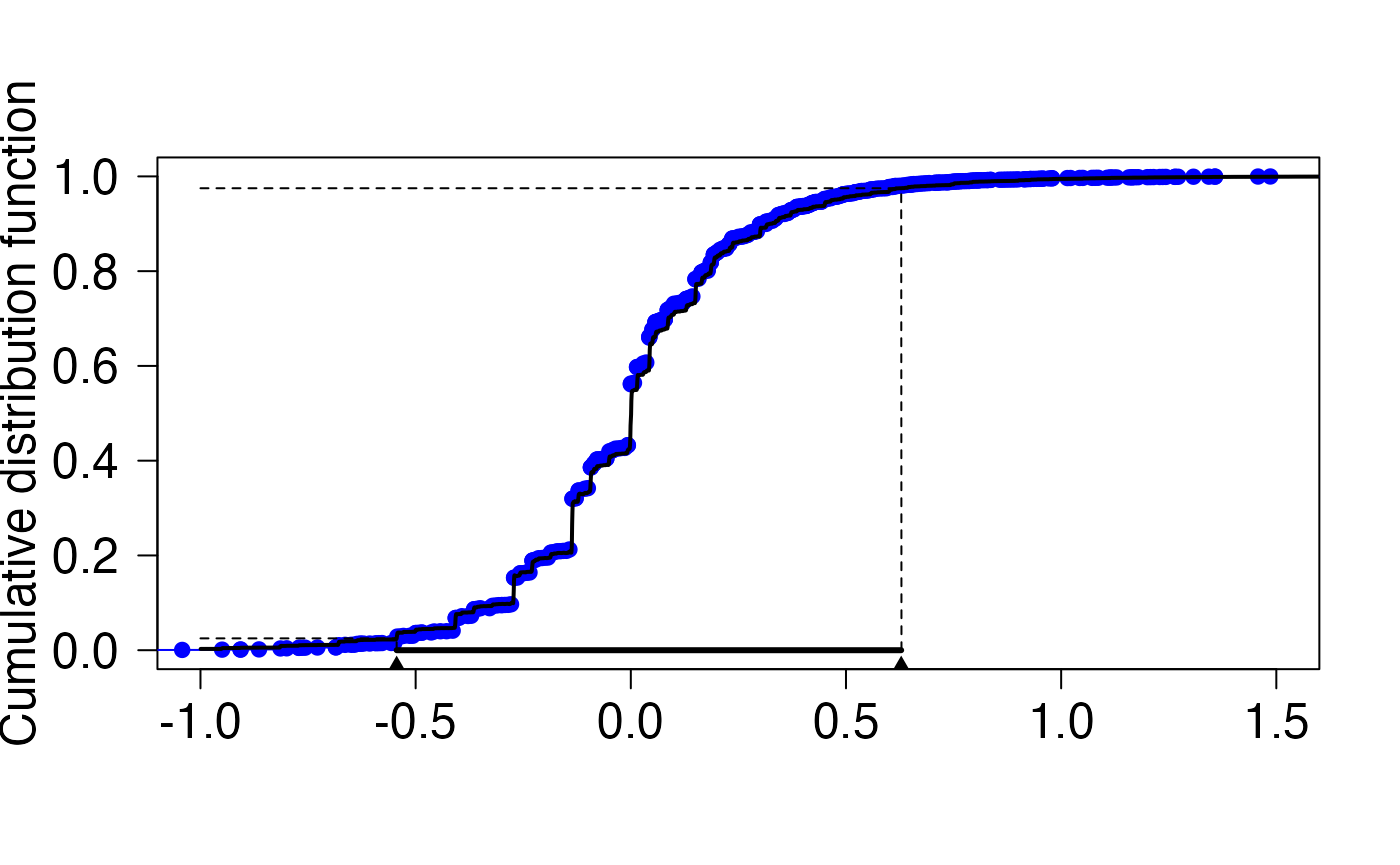
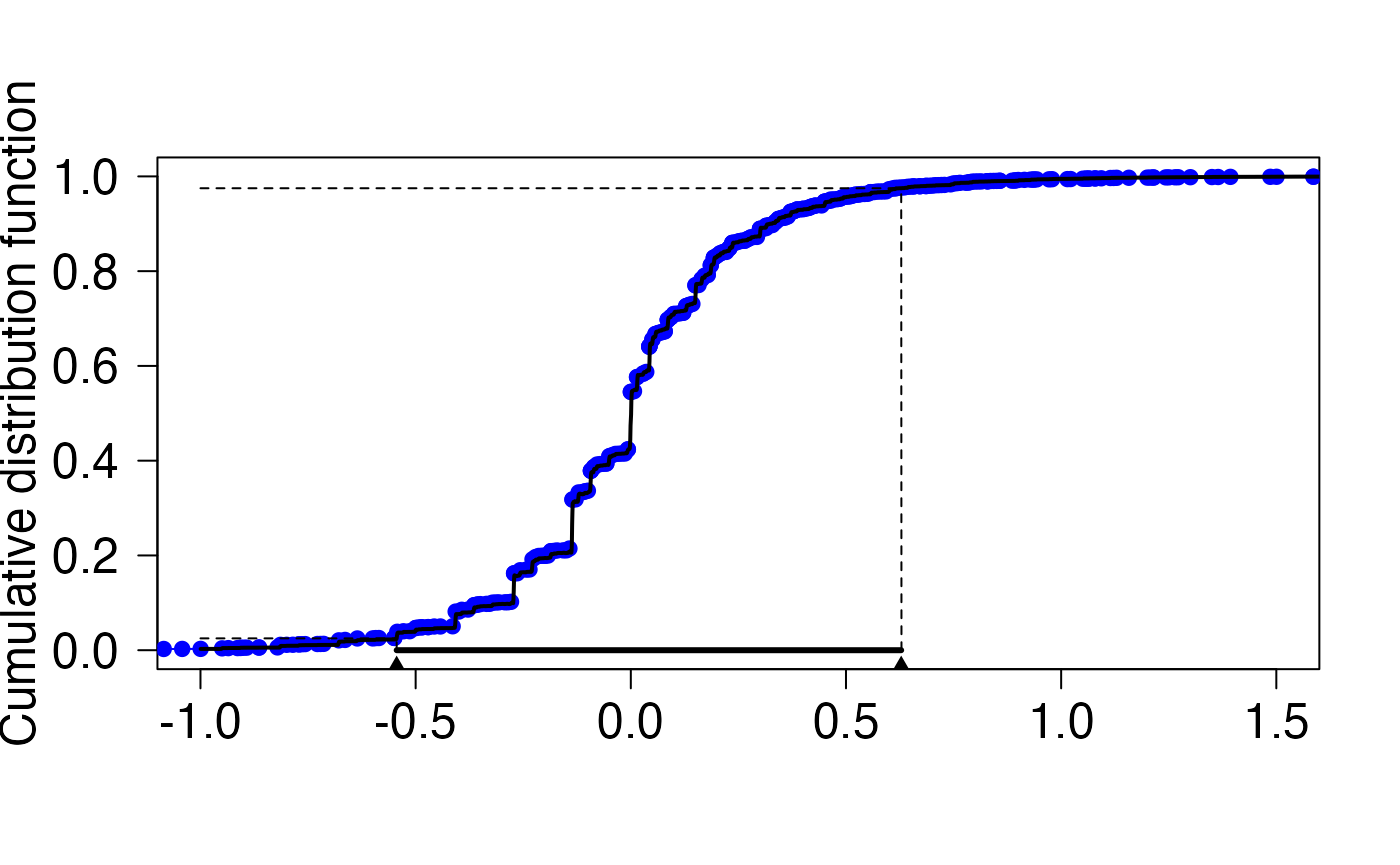
build site

diff --git a/docs/index.html b/docs/index.html
@@ -41,7 +41,7 @@
       </button>
       <span class="navbar-brand">
         <a class="navbar-link" href="index.html">PhaseTypeR</a>
-        <span class="version label label-default" data-toggle="tooltip" data-placement="bottom" title="Released version">1.0.1</span>
+        <span class="version label label-default" data-toggle="tooltip" data-placement="bottom" title="Released version">1.0.2</span>
       </span>
     </div>
 
@@ -106,15 +106,18 @@
 <div id="installation" class="section level2">
 <h2 class="hasAnchor">
 <a href="#installation" class="anchor"></a>Installation</h2>
-<p>If you install devtools in your R environment with <code><a href="https://rdrr.io/r/utils/install.packages.html">install.packages("devtools")</a></code>, the development version of the package can be installed with the following command:</p>
+<p>You can install <code>PhaseTypeR</code> from CRAN via:</p>
 <div class="sourceCode" id="cb1"><pre class="downlit sourceCode r">
+<code class="sourceCode R"><span class="fu"><a href="https://rdrr.io/r/utils/install.packages.html">install.packages</a></span><span class="op">(</span><span class="st">"PhaseTypeR"</span><span class="op">)</span></code></pre></div>
+<p>If you install devtools in your R environment with <code><a href="https://rdrr.io/r/utils/install.packages.html">install.packages("devtools")</a></code>, the development version of the package can be installed with the following command:</p>
+<div class="sourceCode" id="cb2"><pre class="downlit sourceCode r">
 <code class="sourceCode R"><span class="fu">devtools</span><span class="fu">::</span><span class="fu"><a href="https://devtools.r-lib.org/reference/remote-reexports.html">install_github</a></span><span class="op">(</span><span class="st">"rivasiker/PhaseTypeR"</span><span class="op">)</span></code></pre></div>
 </div>
 <div id="basic-example" class="section level2">
 <h2 class="hasAnchor">
 <a href="#basic-example" class="anchor"></a>Basic example</h2>
 <p>This is a basic example for the univariate continuous phase-type distribution.</p>
-<div class="sourceCode" id="cb2"><pre class="downlit sourceCode r">
+<div class="sourceCode" id="cb3"><pre class="downlit sourceCode r">
 <code class="sourceCode R"><span class="co"># Load the package</span>
 <span class="kw"><a href="https://rdrr.io/r/base/library.html">library</a></span><span class="op">(</span><span class="va"><a href="https://rivasiker.github.io/PhaseTypeR/">PhaseTypeR</a></span><span class="op">)</span>
 
@@ -128,7 +131,7 @@
 <span class="co"># Create continuous phase-type object</span>
 <span class="va">ph</span> <span class="op">&lt;-</span> <span class="fu"><a href="reference/generator_functions.html">PH</a></span><span class="op">(</span><span class="va">subintensity_matrix</span>, <span class="va">initial_probabilities</span><span class="op">)</span></code></pre></div>
 <p>Summary of the object:</p>
-<div class="sourceCode" id="cb3"><pre class="downlit sourceCode r">
+<div class="sourceCode" id="cb4"><pre class="downlit sourceCode r">
 <code class="sourceCode R"><span class="fu"><a href="https://rdrr.io/r/base/summary.html">summary</a></span><span class="op">(</span><span class="va">ph</span><span class="op">)</span>
 <span class="co">#&gt; </span>
 <span class="co">#&gt; Subintensity matrix:</span>
@@ -148,19 +151,19 @@
 <span class="co">#&gt; </span>
 <span class="co">#&gt; Variance: 5.44</span></code></pre></div>
 <p>Density function:</p>
-<div class="sourceCode" id="cb4"><pre class="downlit sourceCode r">
+<div class="sourceCode" id="cb5"><pre class="downlit sourceCode r">
 <code class="sourceCode R"><span class="fu"><a href="reference/PH_functions.html">dPH</a></span><span class="op">(</span><span class="fl">1</span><span class="op">:</span><span class="fl">5</span>, <span class="va">ph</span><span class="op">)</span>
 <span class="co">#&gt; [1] 0.1506327 0.2216989 0.1991321 0.1482987 0.1009037</span></code></pre></div>
 <p>Cumulative density function:</p>
-<div class="sourceCode" id="cb5"><pre class="downlit sourceCode r">
+<div class="sourceCode" id="cb6"><pre class="downlit sourceCode r">
 <code class="sourceCode R"><span class="fu"><a href="reference/PH_functions.html">pPH</a></span><span class="op">(</span><span class="fl">1</span><span class="op">:</span><span class="fl">5</span>, <span class="va">ph</span><span class="op">)</span>
 <span class="co">#&gt; [1] 0.07030638 0.26728005 0.48232823 0.65658059 0.78032198</span></code></pre></div>
 <p>Quantile function:</p>
-<div class="sourceCode" id="cb6"><pre class="downlit sourceCode r">
+<div class="sourceCode" id="cb7"><pre class="downlit sourceCode r">
 <code class="sourceCode R"><span class="fu"><a href="reference/PH_functions.html">qPH</a></span><span class="op">(</span><span class="fu"><a href="https://rdrr.io/r/base/c.html">c</a></span><span class="op">(</span><span class="fl">0.25</span>, <span class="fl">0.5</span>, <span class="fl">0.75</span><span class="op">)</span>, <span class="va">ph</span><span class="op">)</span>
 <span class="co">#&gt; [1] 1.921862 3.089664 4.716588</span></code></pre></div>
 <p>Random sampling:</p>
-<div class="sourceCode" id="cb7"><pre class="downlit sourceCode r">
+<div class="sourceCode" id="cb8"><pre class="downlit sourceCode r">
 <code class="sourceCode R"><span class="fu"><a href="https://rdrr.io/r/base/Random.html">set.seed</a></span><span class="op">(</span><span class="fl">0</span><span class="op">)</span>
 <span class="fu"><a href="reference/PH_functions.html">rPH</a></span><span class="op">(</span><span class="fl">6</span>, <span class="va">ph</span><span class="op">)</span>
 <span class="co">#&gt; [1] 4.648661 6.111533 4.586241 5.708529 8.354549 5.768456</span></code></pre></div>

diff --git a/docs/articles/a2_pop_gen_iker.html b/docs/articles/a2_pop_gen_iker.html
@@ -31,7 +31,7 @@
       </button>
       <span class="navbar-brand">
         <a class="navbar-link" href="../index.html">PhaseTypeR</a>
-        <span class="version label label-default" data-toggle="tooltip" data-placement="bottom" title="Released version">1.0.1</span>
+        <span class="version label label-default" data-toggle="tooltip" data-placement="bottom" title="Released version">1.0.2</span>
       </span>
     </div>
 
@@ -105,7 +105,8 @@
 <p><code>PhaseTypeR</code> is a flexible and efficient package for using phase-type theory in R. This vignette describes how to use the general-purpose phase-type functions for modeling common statistics in population genomics at the finest level. The formulation of general phase-type theory can be consulted in Bladt and Nielsen’s ‘Matrix-Exponential Distributions in Applied Probability’ <span class="citation">(<a href="#ref-Bladt2017" role="doc-biblioref">Bladt and Nielsen 2017</a>)</span>, and the notation for this vignette is also adopted from this book. On the other hand, the theory behind applying phase-type theory in population genomics is based on Hobolth et al. <span class="citation">(<a href="#ref-Hobolth2019" role="doc-biblioref">2019</a>)</span>.</p>
 <p>Do not hesitate to run <code>?PhaseTypeR</code> for a quick summary of the available general-purpose functions, or to open the help files for the individual functions.</p>
 <div class="sourceCode" id="cb1"><pre class="downlit sourceCode r">
-<code class="sourceCode R"><span class="kw"><a href="https://rdrr.io/r/base/library.html">library</a></span><span class="op">(</span><span class="va"><a href="https://rivasiker.github.io/PhaseTypeR/">PhaseTypeR</a></span><span class="op">)</span></code></pre></div>
+<code class="sourceCode R"><span class="kw"><a href="https://rdrr.io/r/base/library.html">library</a></span><span class="op">(</span><span class="va"><a href="https://rivasiker.github.io/PhaseTypeR/">PhaseTypeR</a></span><span class="op">)</span>
+<span class="co">#&gt; Warning: package 'igraph' was built under R version 4.1.2</span></code></pre></div>
 </div>
 <div id="the-univariate-continuous-phase-type-distribution-t_mrca-and-t_total" class="section level1">
 <h1 class="hasAnchor">
@@ -598,11 +599,11 @@ T_{total} = T_{MRCA} \circ [n, n-1, ..., 2]
 <span class="fu"><a href="../reference/mean.html">mean</a></span><span class="op">(</span><span class="va">xi1_4_3</span><span class="op">)</span><span class="op">-</span><span class="fl">1</span>; <span class="fu"><a href="../reference/mean.html">mean</a></span><span class="op">(</span><span class="va">xi2_4_3</span><span class="op">)</span><span class="op">-</span><span class="fl">1</span>; <span class="fu"><a href="../reference/mean.html">mean</a></span><span class="op">(</span><span class="va">xi3_4_3</span><span class="op">)</span><span class="op">-</span><span class="fl">1</span>
 <span class="co">#&gt; [1] 3</span>
 <span class="co">#&gt; [1] 1.5</span>
-<span class="co">#&gt; [1] 1</span>
+<span class="co">#&gt; [1] 0.6666667</span>
 <span class="fu"><a href="../reference/var.html">var</a></span><span class="op">(</span><span class="va">xi1_4_3</span><span class="op">)</span>;  <span class="fu"><a href="../reference/var.html">var</a></span><span class="op">(</span><span class="va">xi2_4_3</span><span class="op">)</span>;  <span class="fu"><a href="../reference/var.html">var</a></span><span class="op">(</span><span class="va">xi3_4_3</span><span class="op">)</span>
 <span class="co">#&gt; [1] 7</span>
 <span class="co">#&gt; [1] 6.75</span>
-<span class="co">#&gt; [1] 3</span></code></pre></div>
+<span class="co">#&gt; [1] 3.888889</span></code></pre></div>
 <p>Note that we need to subtract 1 from the mean to retrieve the true value. This is because of the way discrete phase-type distributions are defined (see <span class="citation">(<a href="#ref-Bladt2017" role="doc-biblioref">Bladt and Nielsen 2017</a>)</span> and <span class="citation">(<a href="#ref-Hobolth2019" role="doc-biblioref">Hobolth, Siri-Jégousse, and Bladt 2019</a>)</span> for details).</p>
 </div>
 <div id="density-distribution-and-quantile-functions-1" class="section level2">

diff --git a/docs/articles/a3_phasetypeR_SFS.html b/docs/articles/a3_phasetypeR_SFS.html
@@ -31,7 +31,7 @@
       </button>
       <span class="navbar-brand">
         <a class="navbar-link" href="../index.html">PhaseTypeR</a>
-        <span class="version label label-default" data-toggle="tooltip" data-placement="bottom" title="Released version">1.0.1</span>
+        <span class="version label label-default" data-toggle="tooltip" data-placement="bottom" title="Released version">1.0.2</span>
       </span>
     </div>
 
@@ -217,7 +217,7 @@
 <p>Next, we simulate random site frequency spectra.</p>
 <div class="sourceCode" id="cb6"><pre class="downlit sourceCode r">
 <code class="sourceCode R"><span class="va">R</span> <span class="op">&lt;-</span> <span class="fl">1e4</span>
-<span class="va">ph_mv_sim_obj</span> <span class="op">&lt;-</span> <span class="fu"><a href="../reference/MPH_functions.html">rMPH</a></span><span class="op">(</span><span class="va">R</span>,<span class="va">ph_bcp</span><span class="op">)</span>
+<span class="va">ph_mv_sim_obj</span> <span class="op">&lt;-</span> <span class="fu"><a href="https://rdrr.io/r/base/t.html">t</a></span><span class="op">(</span><span class="fu"><a href="../reference/MPH_functions.html">rMPH</a></span><span class="op">(</span><span class="va">R</span>,<span class="va">ph_bcp</span><span class="op">)</span><span class="op">)</span>
 <span class="va">lambda</span> <span class="op">&lt;-</span> <span class="fl">0.5</span> <span class="co">#lambda = theta/2</span>
 <span class="va">ph_counts</span> <span class="op">=</span> <span class="fu"><a href="https://rdrr.io/r/base/matrix.html">matrix</a></span><span class="op">(</span><span class="fl">0</span>,<span class="fu"><a href="https://rdrr.io/r/base/dim.html">dim</a></span><span class="op">(</span><span class="va">ph_mv_sim_obj</span><span class="op">)</span><span class="op">[</span><span class="fl">2</span><span class="op">]</span>,<span class="fu"><a href="https://rdrr.io/r/base/dim.html">dim</a></span><span class="op">(</span><span class="va">ph_mv_sim_obj</span><span class="op">)</span><span class="op">[</span><span class="fl">1</span><span class="op">]</span><span class="op">)</span>
 <span class="kw">for</span><span class="op">(</span><span class="va">i</span> <span class="kw">in</span> <span class="fl">1</span><span class="op">:</span><span class="va">R</span><span class="op">)</span> <span class="op">{</span>
@@ -500,7 +500,7 @@ c_i = \frac{1}{\binom{n}{2}} i (n-i) - \frac{1}{\sum_{i=1}^{n-1} \frac{1}{i}} \,
 
 
 <span class="fu"><a href="https://rdrr.io/r/base/Random.html">set.seed</a></span><span class="op">(</span><span class="fl">0</span><span class="op">)</span>
-<span class="va">ph_mv_sim_obj</span> <span class="op">&lt;-</span> <span class="fu"><a href="../reference/MPH_functions.html">rMPH</a></span><span class="op">(</span><span class="va">R</span>,<span class="va">ph_bcp</span><span class="op">)</span>
+<span class="va">ph_mv_sim_obj</span> <span class="op">&lt;-</span> <span class="fu"><a href="https://rdrr.io/r/base/t.html">t</a></span><span class="op">(</span><span class="fu"><a href="../reference/MPH_functions.html">rMPH</a></span><span class="op">(</span><span class="va">R</span>,<span class="va">ph_bcp</span><span class="op">)</span><span class="op">)</span>
 
 
 <span class="fu"><a href="https://rdrr.io/r/base/Random.html">set.seed</a></span><span class="op">(</span><span class="fl">19</span><span class="op">)</span>

diff --git a/docs/reference/MPH_functions.html b/docs/reference/MPH_functions.html
@@ -73,7 +73,7 @@ for the multivariate continuous phase-type distribution." />
       </button>
       <span class="navbar-brand">
         <a class="navbar-link" href="../index.html">PhaseTypeR</a>
-        <span class="version label label-default" data-toggle="tooltip" data-placement="bottom" title="Released version">1.0.1</span>
+        <span class="version label label-default" data-toggle="tooltip" data-placement="bottom" title="Released version">1.0.2</span>
       </span>
     </div>
 
@@ -231,15 +231,22 @@ result. Only the first elements of the logical arguments are used.</p>
 #&gt; [3,] 4.3387820
 #&gt; [4,] 2.1700430</div><div class='input'><span class='fu'><a href='https://rdrr.io/r/base/Random.html'>set.seed</a></span><span class='op'>(</span><span class='fl'>0</span><span class='op'>)</span>
 <span class='fu'>rMPH</span><span class='op'>(</span><span class='fl'>6</span>, <span class='va'>Y</span><span class='op'>)</span>
-</div><div class='output co'>#&gt;           [,1]       [,2]      [,3]      [,4]      [,5]      [,6]
-#&gt; [1,] 0.7551818  0.1457067 1.9997498 0.4360686 2.0340910 0.3740457
-#&gt; [2,] 1.2346425  1.0012151 0.6616294 0.7350846 0.5667907 1.2148449
-#&gt; [3,] 8.0114387 16.6284262 8.9418594 5.4812071 3.9179274 0.7160464
-#&gt; [4,] 5.0815599  2.7447191 3.1889157 2.7062132 0.8113041 1.3580180</div><div class='input'><span class='fu'>rFullMPH</span><span class='op'>(</span><span class='va'>Y</span><span class='op'>)</span>
-</div><div class='output co'>#&gt;   state       time   reward_1   reward_2   reward_3   reward_4
-#&gt; 1     1 0.32166731 0.00000000 0.32166731 0.32166731 0.64333461
-#&gt; 2     3 0.38159000 0.00000000 0.38159000 3.81590005 0.76318001
-#&gt; 3     2 0.01119789 0.02239578 0.01119789 0.05598945 0.02239578</div><div class='input'>
+</div><div class='output co'>#&gt;           [,1]      [,2]      [,3]     [,4]
+#&gt; [1,] 1.4531985 2.1235576 14.028829 4.247115
+#&gt; [2,] 0.8250690 1.7917798  7.746472 3.583560
+#&gt; [3,] 1.3303570 2.2700540 16.048413 4.540108
+#&gt; [4,] 0.6388227 0.5667907  1.844436 1.133581
+#&gt; [5,] 0.6818173 1.2148449  6.482502 2.429690
+#&gt; [6,] 0.8615078 1.5659480  8.011439 3.131896</div><div class='input'><span class='fu'>rFullMPH</span><span class='op'>(</span><span class='va'>Y</span><span class='op'>)</span>
+</div><div class='output co'>#&gt;   state       time  reward_1   reward_2   reward_3  reward_4
+#&gt; 1     1 0.10042767 0.0000000 0.10042767  0.1004277 0.2008553
+#&gt; 2     2 0.33151860 0.6630372 0.33151860  1.6575930 0.6630372
+#&gt; 3     3 1.00391620 0.0000000 1.00391620 10.0391620 2.0078324
+#&gt; 4     1 0.72625752 0.0000000 0.72625752  0.7262575 1.4525150
+#&gt; 5     2 0.09485884 0.1897177 0.09485884  0.4742942 0.1897177
+#&gt; 6     3 0.27891468 0.0000000 0.27891468  2.7891468 0.5578294
+#&gt; 7     1 0.32579860 0.0000000 0.32579860  0.3257986 0.6515972
+#&gt; 8     2 0.10314929 0.2062986 0.10314929  0.5157464 0.2062986</div><div class='input'>
 </div></pre>
   </div>
   <div class="col-md-3 hidden-xs hidden-sm" id="pkgdown-sidebar">

diff --git a/docs/reference/MDPH_functions.html b/docs/reference/MDPH_functions.html
@@ -73,7 +73,7 @@ for the multivariate discrete phase-type distribution." />
       </button>
       <span class="navbar-brand">
         <a class="navbar-link" href="../index.html">PhaseTypeR</a>
-        <span class="version label label-default" data-toggle="tooltip" data-placement="bottom" title="Released version">1.0.1</span>
+        <span class="version label label-default" data-toggle="tooltip" data-placement="bottom" title="Released version">1.0.2</span>
       </span>
     </div>
 
@@ -232,15 +232,19 @@ result. Only the first elements of the logical arguments are used.</p>
 #&gt; [3,]   13
 #&gt; [4,]   10</div><div class='input'><span class='fu'><a href='https://rdrr.io/r/base/Random.html'>set.seed</a></span><span class='op'>(</span><span class='fl'>0</span><span class='op'>)</span>
 <span class='fu'>rMDPH</span><span class='op'>(</span><span class='fl'>6</span>, <span class='va'>Y</span><span class='op'>)</span>
-</div><div class='output co'>#&gt;      [,1] [,2] [,3] [,4] [,5] [,6]
-#&gt; [1,]    0    9   14    2    0    4
-#&gt; [2,]   26   21   19   24   15   15
-#&gt; [3,]   32    0   68   12   11   21
-#&gt; [4,]   24    6    6   14    8   12</div><div class='input'><span class='fu'>rFullMDPH</span><span class='op'>(</span><span class='va'>Y</span><span class='op'>)</span>
+</div><div class='output co'>#&gt;      [,1] [,2] [,3] [,4]
+#&gt; [1,]    9   29   45   24
+#&gt; [2,]   11   31   47   28
+#&gt; [3,]    6   26   42   18
+#&gt; [4,]   10   50   55   35
+#&gt; [5,]    6   22   33   17
+#&gt; [6,]    7   23   34   19</div><div class='input'><span class='fu'>rFullMDPH</span><span class='op'>(</span><span class='va'>Y</span><span class='op'>)</span>
 </div><div class='output co'>#&gt;   state time reward_1 reward_2 reward_3 reward_4
-#&gt; 1     1    2        0        4        0        2
-#&gt; 2     2    2        2        2        2        4
-#&gt; 3     3    1        1        5       10        3</div><div class='input'>
+#&gt; 1     1    3        0        6        0        3
+#&gt; 2     2    3        3        3        3        6
+#&gt; 3     3    1        1        5       10        3
+#&gt; 4     2    1        1        1        1        2
+#&gt; 5     3    1        1        5       10        3</div><div class='input'>
 </div></pre>
   </div>
   <div class="col-md-3 hidden-xs hidden-sm" id="pkgdown-sidebar">

diff --git a/docs/articles/PhaseTypeR.html b/docs/articles/PhaseTypeR.html
@@ -31,7 +31,7 @@
       </button>
       <span class="navbar-brand">
         <a class="navbar-link" href="../index.html">PhaseTypeR</a>
-        <span class="version label label-default" data-toggle="tooltip" data-placement="bottom" title="Released version">1.0.1</span>
+        <span class="version label label-default" data-toggle="tooltip" data-placement="bottom" title="Released version">1.0.2</span>
       </span>
     </div>
 
@@ -738,7 +738,7 @@ Y_j = \sum_{m=0}^{\tau-1} r_j(X_m), \quad j=1,\ldots,n.
 <p>The mean of each reward transformed multivariate vector is given by</p>
 <div class="sourceCode" id="cb38"><pre class="downlit sourceCode r">
 <code class="sourceCode R"><span class="fu"><a href="../reference/mean.html">mean</a></span><span class="op">(</span><span class="va">mdph</span><span class="op">)</span>
-<span class="co">#&gt; [1]  2.760000  4.016667 23.416667  8.033333</span></code></pre></div>
+<span class="co">#&gt; [1]  2.200000  4.016667 23.416667  8.033333</span></code></pre></div>
 <p>From <strong>Proposition 5.7</strong> <span class="citation">(<a href="#ref-Navarro2019" role="doc-biblioref">Campillo Navarro 2019, p.85</a>)</span> the bivariate first-order moments of the variables in the <span class="math inline">\(MDPH^*\)</span> distribution are given by</p>
 <p><span class="math display">\[
 \mathbb{E}(Y_j Y_k) = \boldsymbol{\pi} \left\{\boldsymbol{U\Delta}(\boldsymbol{r}_j)\boldsymbol{U\Delta}(\boldsymbol{r}_k) + \boldsymbol{U\Delta}(\boldsymbol{r}_k)\boldsymbol{U\Delta}(\boldsymbol{r}_j) - \boldsymbol{U\Delta}(\boldsymbol{r}_j)\boldsymbol{\Delta}(\boldsymbol{r}_k)\right\}\boldsymbol{e},

diff --git a/docs/news/index.html b/docs/news/index.html
@@ -71,7 +71,7 @@
       </button>
       <span class="navbar-brand">
         <a class="navbar-link" href="../index.html">PhaseTypeR</a>
-        <span class="version label label-default" data-toggle="tooltip" data-placement="bottom" title="Released version">1.0.1</span>
+        <span class="version label label-default" data-toggle="tooltip" data-placement="bottom" title="Released version">1.0.2</span>
       </span>
     </div>
 
@@ -132,6 +132,15 @@
       <small>Source: <a href='https://github.com/rivasiker/PhaseTypeR/blob/master/NEWS.md'><code>NEWS.md</code></a></small>
     </div>
 
+    <div id="phasetyper-102" class="section level1">
+<h1 class="page-header" data-toc-text="1.0.2">
+<a href="#phasetyper-102" class="anchor"></a>PhaseTypeR 1.0.2<small> Unreleased </small>
+</h1>
+<ul>
+<li>Correction of qDPH for when x &lt;= defect.</li>
+<li>Changed the behavior of rMPH and rMDPH, so that all of the univariate draws are coupled.</li>
+</ul>
+</div>
     <div id="phasetyper-101" class="section level1">
 <h1 class="page-header" data-toc-text="1.0.1">
 <a href="#phasetyper-101" class="anchor"></a>PhaseTypeR 1.0.1<small> 2021-12-06 </small>

diff --git a/docs/reference/summary.mult_disc_phase_type.html b/docs/reference/summary.mult_disc_phase_type.html
@@ -72,7 +72,7 @@
       </button>
       <span class="navbar-brand">
         <a class="navbar-link" href="../index.html">PhaseTypeR</a>
-        <span class="version label label-default" data-toggle="tooltip" data-placement="bottom" title="Released version">1.0.1</span>
+        <span class="version label label-default" data-toggle="tooltip" data-placement="bottom" title="Released version">1.0.2</span>
       </span>
     </div>
 
@@ -196,7 +196,7 @@ the mean and the (co)variance of the phase-type object.</p>
 #&gt; [1] 0
 #&gt; 
 #&gt; Means:
-#&gt; [1]  4.287546 16.428571 21.595238 12.472527
+#&gt; [1]  4.120879 16.428571 21.428571 12.472527
 #&gt; 
 #&gt; Variance-covariance matrix:
 #&gt;           [,1]     [,2]      [,3]     [,4]

diff --git a/docs/reference/PH_functions.html b/docs/reference/PH_functions.html
@@ -73,7 +73,7 @@ for the univariate continuous phase-type distribution." />
       </button>
       <span class="navbar-brand">
         <a class="navbar-link" href="../index.html">PhaseTypeR</a>
-        <span class="version label label-default" data-toggle="tooltip" data-placement="bottom" title="Released version">1.0.1</span>
+        <span class="version label label-default" data-toggle="tooltip" data-placement="bottom" title="Released version">1.0.2</span>
       </span>
     </div>
 

diff --git a/docs/reference/DPH_functions.html b/docs/reference/DPH_functions.html
@@ -73,7 +73,7 @@ for the univariate discrete phase-type distribution." />
       </button>
       <span class="navbar-brand">
         <a class="navbar-link" href="../index.html">PhaseTypeR</a>
-        <span class="version label label-default" data-toggle="tooltip" data-placement="bottom" title="Released version">1.0.1</span>
+        <span class="version label label-default" data-toggle="tooltip" data-placement="bottom" title="Released version">1.0.2</span>
       </span>
     </div>
 

diff --git a/docs/reference/check_phase_type.html b/docs/reference/check_phase_type.html
@@ -73,7 +73,7 @@ building a phase-type object have the right shape." />
       </button>
       <span class="navbar-brand">
         <a class="navbar-link" href="../index.html">PhaseTypeR</a>
-        <span class="version label label-default" data-toggle="tooltip" data-placement="bottom" title="Released version">1.0.1</span>
+        <span class="version label label-default" data-toggle="tooltip" data-placement="bottom" title="Released version">1.0.2</span>
       </span>
     </div>
 

diff --git a/docs/reference/var.html b/docs/reference/var.html
@@ -73,7 +73,7 @@ distributions generated by PH, DPH, MPH and  MDPH." />
       </button>
       <span class="navbar-brand">
         <a class="navbar-link" href="../index.html">PhaseTypeR</a>
-        <span class="version label label-default" data-toggle="tooltip" data-placement="bottom" title="Released version">1.0.1</span>
+        <span class="version label label-default" data-toggle="tooltip" data-placement="bottom" title="Released version">1.0.2</span>
       </span>
     </div>
 
